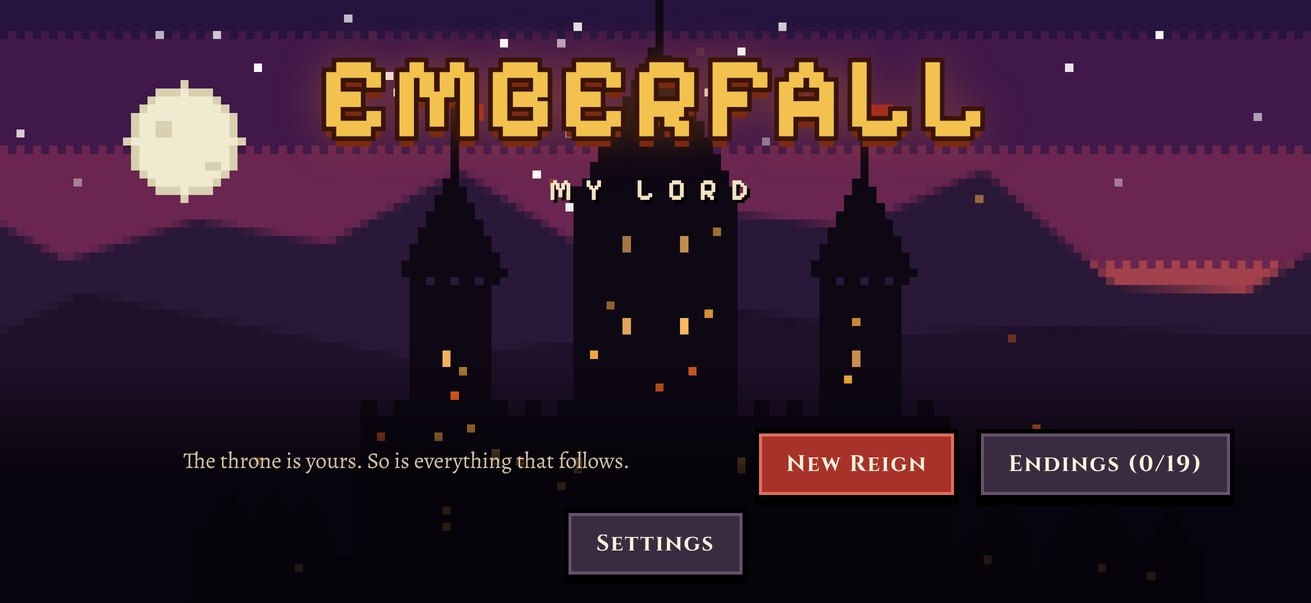
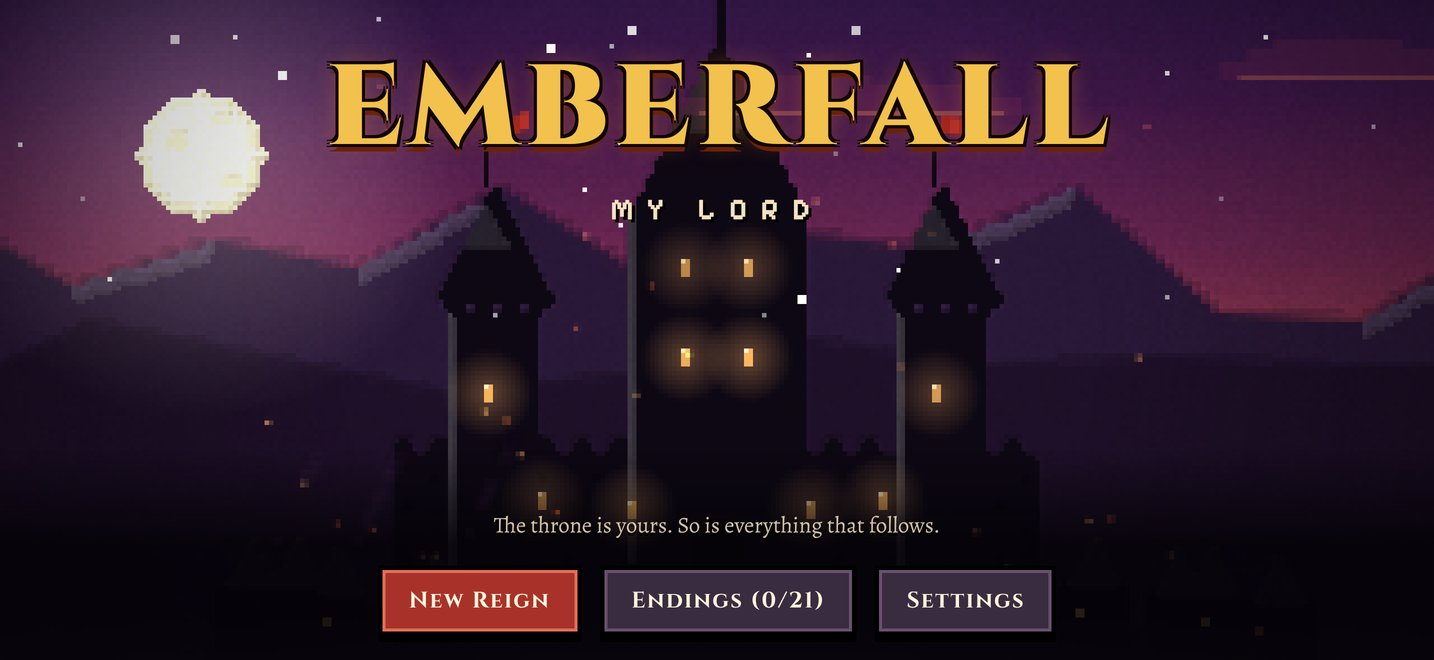
Emberfall pages: 21 endings, July-February unlock, restore and refund help, new screenshots
Claude-Session: https://claude.ai/code/session_01SERTLs5Dns9P29i9CurPML

diff --git a/emberfall/support.html b/emberfall/support.html
@@ -1,20 +1,21 @@
 <!doctype html>
 <html lang="en"><head><meta charset="utf-8"><meta name="viewport" content="width=device-width,initial-scale=1">
 <title>Support · Emberfall: My Lord</title><meta name="description" content="Help and contact for Emberfall: My Lord">
-<meta property="og:title" content="Emberfall: My Lord"><meta property="og:description" content="Help and contact for Emberfall: My Lord"><meta property="og:image" content="https://wolfhopecom.github.io/emberfall/img/02-throne.jpg">
+<meta property="og:title" content="Emberfall: My Lord"><meta property="og:description" content="Help and contact for Emberfall: My Lord"><meta property="og:image" content="https://wolfhopecom.github.io/emberfall/img/02-throne-petition.jpg">
 <link rel="icon" href="icon.png"><link rel="apple-touch-icon" href="icon.png"><link rel="stylesheet" href="style.css"></head>
 <body><main>
 <header><img src="icon.png" alt=""><a href="index.html">Emberfall: My Lord</a></header>
 <nav><a href="index.html">Home</a><a href="support.html">Support</a><a href="privacy.html">Privacy Policy</a><a href="terms.html">Terms of Service</a></nav>
 
 <h1>Support</h1><p>Need a hand, my lord? Most answers are right here.</p>
-<details><summary>I can't hear any music or sounds.</summary><p>Tap anywhere in the game once (sound starts on your first tap). Then check that <b>Music</b> and <b>Sound</b> are On in ⚙ Settings, the iPhone's silent switch is off, and the volume is up.</p></details>
-<details><summary>I bought the full year. How do I get it on another device?</summary><p>Open Emberfall, tap <b>⚙ Settings</b> and then <b>Restore purchase</b>. Use the same Apple ID you bought it with. It's a one-time purchase; you never pay again.</p></details>
-<details><summary>What do I get with the full year?</summary><p>March to June is free, right up to the eve of Baron Vex's attack. One purchase of $1.99 unlocks Chapter Two, August to February: your cousin's claim to the throne, the hunt for your father's killer, the King's war, winter, the Midwinter Council and all 20 endings. No ads, no subscriptions.</p></details>
+<details><summary>I can't hear any music or sounds.</summary><p>Tap anywhere in the game once (sound starts on your first tap). Then check that <b>Music</b> and <b>Sound effects</b> are on in <b>Settings</b> (on the title screen, or ⚙ in the top bar) and their volume sliders are up, the iPhone's silent switch is off, and the volume is up.</p></details>
+<details><summary>I bought the full year. How do I get it on another device?</summary><p>Open Emberfall and tap <b>Settings</b> (on the title screen, or ⚙ in the top bar), then <b>Restore purchase</b>. The unlock screen at the end of June also has a <b>Restore purchase</b> button. Use the same Apple Account you bought it with. It's a one-time purchase, so you never pay again, and restoring is free.</p></details>
+<details><summary>What do I get with the full year?</summary><p>March to June is free, right up to the eve of Baron Vex's attack. One in-app purchase of $1.99 unlocks the rest of the year, July to February: the Battle of the Ford, your cousin's claim to the throne, the hunt for your father's killer, the King's war, winter, the Midwinter Council and all 21 endings. You can buy it on the unlock screen at the end of June, or any time from <b>Settings</b>. No ads, no subscriptions.</p></details>
 <details><summary>How do I continue my game?</summary><p>The game saves automatically before every visitor. On the title screen, tap <b>Continue Reign</b>.</p></details>
 <details><summary>How do I start over?</summary><p>On the title screen, tap <b>New Reign</b>. Starting a new reign replaces your saved game, but the endings you've discovered are kept.</p></details>
-<details><summary>How many endings are there?</summary><p>Thirteen. Tap <b>Endings</b> on the title screen to see which ones you've found. Some only appear if you make certain choices on earlier days.</p></details>
-<details><summary>Do I need the internet?</summary><p>No. The whole game plays offline on your device.</p></details>
+<details><summary>How many endings are there?</summary><p>Twenty-one. Tap <b>Endings</b> on the title screen to see which ones you've found. Some only appear if you make certain choices on earlier days.</p></details>
+<details><summary>How do I get a refund?</summary><p>Purchases are made through Apple, so refunds are handled by Apple. Go to <a href="https://reportaproblem.apple.com">reportaproblem.apple.com</a>, sign in with your Apple Account, and choose <b>Request a refund</b>. We can't issue refunds ourselves, but we're happy to help with any problem: email us.</p></details>
+<details><summary>Do I need the internet?</summary><p>No. The whole game plays offline on your device. Only buying or restoring the full year needs a connection to the App Store.</p></details>
 <details><summary>Is my data collected?</summary><p>No. There are no accounts, ads or tracking. See our <a href="privacy.html">Privacy Policy</a>.</p></details>
 <div class="card"><h2 style="margin-top:0">Contact us</h2><p>Found a bug or have a question? We read every message.</p>
 <p><a class="btn" href="mailto:wolfhopeco@gmail.com?subject=Emberfall%20support&body=What%20happened%3F%20(Which%20device%2C%20and%20which%20month%20of%20your%20reign%3F)">Email wolfhopeco@gmail.com</a></p></div>

diff --git a/emberfall/index.html b/emberfall/index.html
@@ -1,7 +1,7 @@
 <!doctype html>
 <html lang="en"><head><meta charset="utf-8"><meta name="viewport" content="width=device-width,initial-scale=1">
-<title>Emberfall: My Lord</title><meta name="description" content="A pixel-art medieval story game. A year on the throne of Emberfall, fourteen voices at your door and thirteen endings.">
-<meta property="og:title" content="Emberfall: My Lord"><meta property="og:description" content="A pixel-art medieval story game. A year on the throne of Emberfall, fourteen voices at your door and thirteen endings."><meta property="og:image" content="https://wolfhopecom.github.io/emberfall/img/02-throne.jpg">
+<title>Emberfall: My Lord</title><meta name="description" content="A pixel-art medieval story game. A year on the throne of Emberfall, a murder to solve and 21 endings.">
+<meta property="og:title" content="Emberfall: My Lord"><meta property="og:description" content="A pixel-art medieval story game. A year on the throne of Emberfall, a murder to solve and 21 endings."><meta property="og:image" content="https://wolfhopecom.github.io/emberfall/img/02-throne-petition.jpg">
 <link rel="icon" href="icon.png"><link rel="apple-touch-icon" href="icon.png"><link rel="stylesheet" href="style.css"></head>
 <body><main>
 <header><img src="icon.png" alt=""><a href="index.html">Emberfall: My Lord</a></header>
@@ -10,14 +10,14 @@
 <div class="hero"><h1>EMBERFALL</h1><div class="sub">MY LORD</div></div>
 <p><b>Your father is dead, and the throne of Emberfall is yours.</b> Everyone says he died in his sleep. His last letter says otherwise.</p>
 <p>Rule a small river city for one year. By day, answer the people who climb to your throne: a starving village, a marriage offer for your daughter, the strange ferrywoman of the Ember, with a bargain she won't explain, an envoy from Baron Vex, who wants your city. By night, walk the castle, set your taxes, send out your soldiers and build your walls. In high summer, command the defense of the ford yourself. Then your cousin arrives with a will that names him heir, and eleven lords must decide who rules Emberfall. Find your father's killer before they vote.</p>
-<div class="shots"><img src="img/01-title.jpg" alt="Title screen: Emberfall castle at dusk"><img src="img/02-throne.jpg" alt="A merchant petitions the throne"><img src="img/04-witch.jpg" alt="Morwen the hedge-witch offers a bargain"><img src="img/05-siege.jpg" alt="High summer: Emberfall under siege"><img src="img/06-ending.jpg" alt="An ending: Lord of Both Banks"></div>
+<div class="shots"><img src="img/01-title.jpg" alt="Title screen: Emberfall castle at dusk"><img src="img/02-throne-petition.jpg" alt="Sir Gerrit, Baron Vex's envoy, demands tribute at the throne"><img src="img/03-night-castle.jpg" alt="Night in the castle: choose which room to visit"><img src="img/04-battle-of-the-ford.jpg" alt="The Battle of the Ford: Vex's host at the river"><img src="img/05-world-map.jpg" alt="The River Country map"><img src="img/06-ending.jpg" alt="An ending: The Ember Crown"></div>
 <div class="card"><ul style="margin:0;padding-left:20px">
 <li>A full year of story in two chapters, with a murder mystery that runs through all of it</li>
-<li>A playable siege: your preparations and your orders on the night decide the battle</li>
-<li>Eleven lords to win over before the Midwinter Council, and <b>20 endings</b></li>
+<li>A playable battle: your preparations and your orders on the night decide it</li>
+<li>Eleven lords to win over before the Midwinter Council, and <b>21 endings</b></li>
 <li>Your family, with conversations that change as the year does</li>
 <li>Pixel art with real lighting, seasons and weather, and an original soundtrack</li>
 <li><b>No ads. No accounts. No tracking.</b> Plays fully offline.</li></ul></div>
-<p style="text-align:center;font-family:'Pixelify Sans',monospace;color:var(--gold)">Coming soon to the App Store. Spring is free; the full year is a one-time $1.99.</p>
+<p style="text-align:center;font-family:'Pixelify Sans',monospace;color:var(--gold)">Coming soon to the App Store for iPhone. March to June is free; the full year is a one-time $1.99 in-app purchase.</p>
 <footer>© 2026 Wolfhope · Emberfall: My Lord</footer>
 </main></body></html>

diff --git a/emberfall/terms.html b/emberfall/terms.html
@@ -1,19 +1,19 @@
 <!doctype html>
 <html lang="en"><head><meta charset="utf-8"><meta name="viewport" content="width=device-width,initial-scale=1">
 <title>Terms of Service · Emberfall: My Lord</title><meta name="description" content="Emberfall: My Lord Terms of Service">
-<meta property="og:title" content="Emberfall: My Lord"><meta property="og:description" content="Emberfall: My Lord Terms of Service"><meta property="og:image" content="https://wolfhopecom.github.io/emberfall/img/02-throne.jpg">
+<meta property="og:title" content="Emberfall: My Lord"><meta property="og:description" content="Emberfall: My Lord Terms of Service"><meta property="og:image" content="https://wolfhopecom.github.io/emberfall/img/02-throne-petition.jpg">
 <link rel="icon" href="icon.png"><link rel="apple-touch-icon" href="icon.png"><link rel="stylesheet" href="style.css"></head>
 <body><main>
 <header><img src="icon.png" alt=""><a href="index.html">Emberfall: My Lord</a></header>
 <nav><a href="index.html">Home</a><a href="support.html">Support</a><a href="privacy.html">Privacy Policy</a><a href="terms.html">Terms of Service</a></nav>
 
-<h1>Terms of Service</h1><p>Last updated October 12, 2026</p>
+<h1>Terms of Service</h1><p>Last updated October 22, 2026</p>
 <div class="card"><p style="margin:0"><b>The short version:</b> Emberfall: My Lord is a game. Play it and have fun. The story, characters, art and music belong to us. We work hard to keep it bug-free, but it's provided "as is."</p></div>
 <h2>Agreeing to these terms</h2><p>These Terms of Service ("Terms") are an agreement between you and Wolfhope ("we," "us"). By downloading or using Emberfall: My Lord (the "App"), you agree to these Terms. If you don't agree, please don't use the App.</p>
 <h2>Who can use the App</h2><p>You may use the App on your own if you are 13 or older. Younger players may use the App with the permission of a parent or guardian, who agrees to these Terms on their behalf.</p>
 <h2>Your license</h2><p>We give you a personal, non-exclusive, non-transferable license to use the App on devices you own or control, for your own entertainment. You may not copy, sell, rent, redistribute or publish the App or its story, characters, artwork, music or code, or reverse-engineer the App, except where the law specifically allows it.</p>
 <h2>What we own</h2><p>The App, its story, characters, the Emberfall name, artwork, music and sound are owned by Wolfhope and protected by copyright and trademark laws.</p>
-<h2>Purchases</h2><p>If the App offers in-app purchases, they are processed by Apple's App Store or Google Play, and their terms govern payment, billing and refunds. To request a refund, contact the store you bought from. You can restore a purchase on another device signed in to the same store account.</p>
+<h2>Purchases</h2><p>March to June of the game is free. The rest of the year is unlocked with one optional, one-time in-app purchase. Purchases are processed by Apple's App Store (or Google Play), and their terms govern payment, billing and refunds. To request a refund from Apple, go to <a href="https://reportaproblem.apple.com">reportaproblem.apple.com</a>. You can restore a purchase for free on another device signed in to the same store account, from <b>Settings → Restore purchase</b> in the App.</p>
 <h2>No warranty</h2><p>The App is provided "as is" and "as available," without warranties of any kind, whether express or implied, including warranties of merchantability, fitness for a particular purpose and non-infringement. We don't promise that the App will be error-free or uninterrupted.</p>
 <h2>Limitation of liability</h2><p>To the fullest extent the law allows, Wolfhope will not be liable for any indirect, incidental, special, consequential or punitive damages, or for any loss of data or saved progress, arising from your use of (or inability to use) the App. Our total liability for any claim related to the App is limited to the amount you paid us for the App in the 12 months before the claim. Some places don't allow these limits, so they may not fully apply to you.</p>
 <h2>Your saved game</h2><p>Your progress is stored only on your device. Deleting the App or clearing its data erases it, and we can't recover it.</p>

diff --git a/emberfall/privacy.html b/emberfall/privacy.html
@@ -1,17 +1,17 @@
 <!doctype html>
 <html lang="en"><head><meta charset="utf-8"><meta name="viewport" content="width=device-width,initial-scale=1">
 <title>Privacy Policy · Emberfall: My Lord</title><meta name="description" content="Emberfall: My Lord Privacy Policy">
-<meta property="og:title" content="Emberfall: My Lord"><meta property="og:description" content="Emberfall: My Lord Privacy Policy"><meta property="og:image" content="https://wolfhopecom.github.io/emberfall/img/02-throne.jpg">
+<meta property="og:title" content="Emberfall: My Lord"><meta property="og:description" content="Emberfall: My Lord Privacy Policy"><meta property="og:image" content="https://wolfhopecom.github.io/emberfall/img/02-throne-petition.jpg">
 <link rel="icon" href="icon.png"><link rel="apple-touch-icon" href="icon.png"><link rel="stylesheet" href="style.css"></head>
 <body><main>
 <header><img src="icon.png" alt=""><a href="index.html">Emberfall: My Lord</a></header>
 <nav><a href="index.html">Home</a><a href="support.html">Support</a><a href="privacy.html">Privacy Policy</a><a href="terms.html">Terms of Service</a></nav>
 
-<h1>Privacy Policy</h1><p>Last updated October 12, 2026</p>
+<h1>Privacy Policy</h1><p>Last updated October 22, 2026</p>
 <div class="card"><p style="margin:0"><b>The short version:</b> Emberfall: My Lord doesn't collect any personal information. There are no accounts, no ads, no analytics and no tracking. Your saved game stays on your device.</p></div>
-<h2>What stays on your device</h2><p>To let you continue your reign, the App ("Emberfall: My Lord") saves your current game, the endings you've discovered and your Music and Sound settings. This is stored only in the App's storage on your device. It is never sent to us or anyone else, and it is deleted when you delete the App.</p>
+<h2>What stays on your device</h2><p>To let you continue your reign, the App ("Emberfall: My Lord") saves your current game, the endings you've discovered, your settings (music, sound, text speed, text size and vibration), which tips you've seen, and whether the full year is unlocked. This is stored only in the App's storage on your device. It is never sent to us or anyone else, and it is deleted when you delete the App.</p>
 <h2>What we don't collect</h2><p>We don't collect your name, email, location, contacts, photos, device identifiers or usage data. The App doesn't include advertising, analytics or tracking software from other companies, and it works without an internet connection.</p>
-<h2>Purchases</h2><p>If the App offers in-app purchases, they are handled entirely by Apple's App Store or Google Play under their own privacy policies. We only learn that a purchase was made so the App can unlock content; we never see your payment details.</p>
+<h2>Purchases</h2><p>The App offers one optional in-app purchase (the full year). Purchases and restores are handled entirely by Apple's App Store (or Google Play) under their own privacy policies. The App asks the store, on your device, whether your account owns the unlock; the answer isn't sent to us. We never see your name, Apple Account or payment details.</p>
 <h2>Children</h2><p>The App is a general-audience game and is not directed at children under 13. Because it doesn't collect personal information from anyone, it doesn't collect personal information from children.</p>
 <h2>Changes</h2><p>If this policy changes, we'll update the date at the top. If we ever start collecting any information, we'll update this policy first and ask for your permission where the law requires it.</p>
 <h2>Contact</h2><p>Questions about privacy? Email <a href="mailto:wolfhopeco@gmail.com">wolfhopeco@gmail.com</a> or visit our <a href="https://wolfhopecom.github.io/emberfall/support.html">support page</a>.</p>
